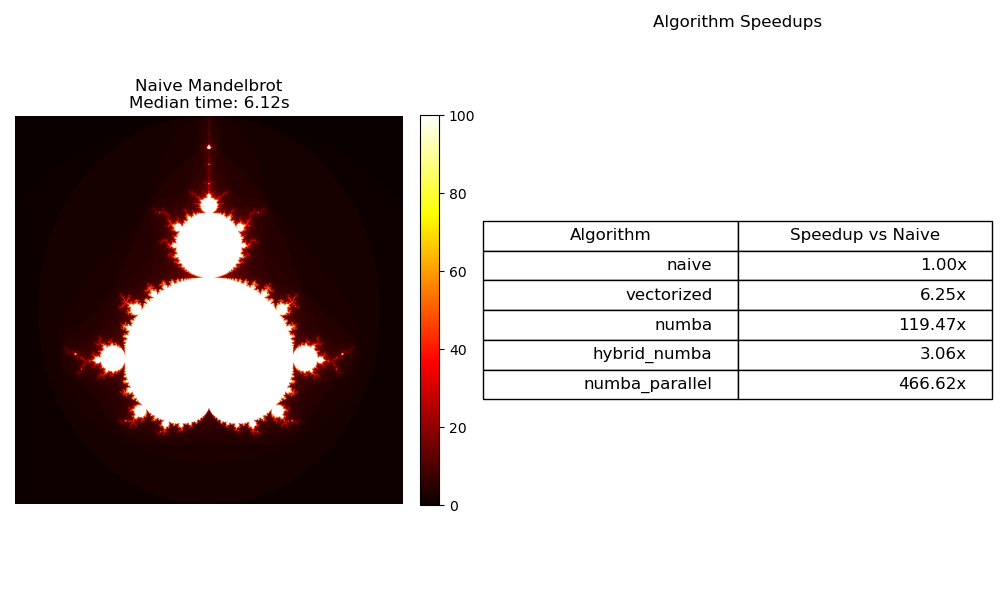
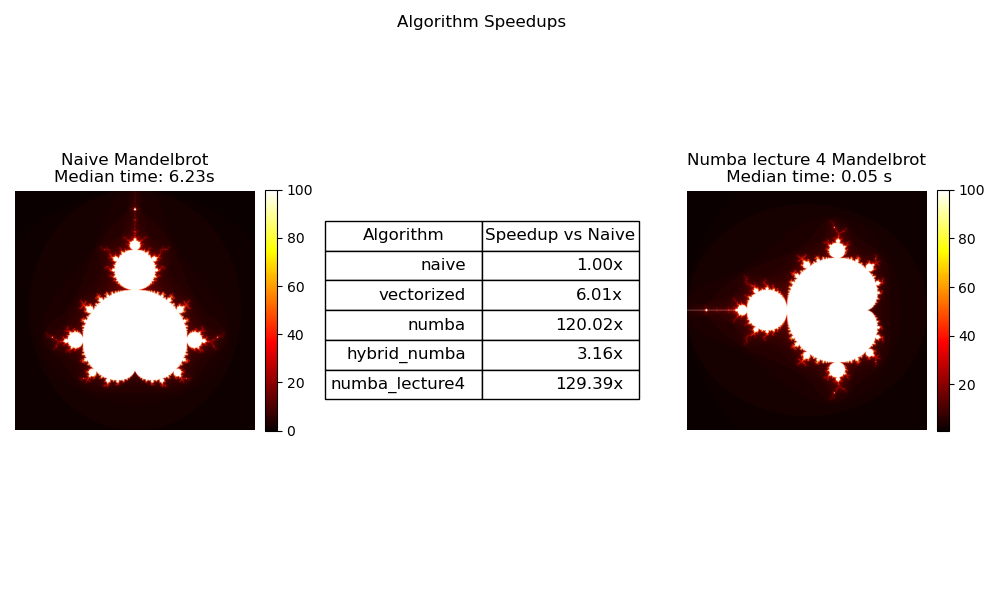
Milestone 1 Lecture 4, implemented serial with timing and result, match numba almost and same result as the other

diff --git a/mandelbort.py b/mandelbort.py
@@ -7,6 +7,8 @@ import numpy as np
 import time, statistics
 import matplotlib.pyplot as plt
 from numba import njit, prange
+from multiprocessing import Pool
+import os
 
 # probally need to remove all_c return as we just want to use iteration however just for debug for now
 def compute_mandelbrot_vectorized(x_min,x_max,y_min,y_max,num): 
@@ -161,6 +163,44 @@ def compute_mandelbrot_numba_parallel(x_min, x_max, y_min, y_max, num):
 
     return all_n
 
+@njit
+def mandelbrot_pixel(c_real, c_imag, max_iter):
+    z_real = 0.0
+    z_imag = 0.0
+
+    for i in range(max_iter):
+        z_real_sq = z_real * z_real
+        z_imag_sq = z_imag * z_imag
+        if z_real_sq + z_imag_sq > 4.0:
+            return i
+        z_imag_new = 2.0 * z_real*z_imag + c_imag
+        z_real = z_real_sq - z_imag_sq + c_real
+        z_imag = z_imag_new
+    return max_iter
+
+@njit
+def mandelbrot_chunk(row_start, row_end, N,
+                     x_min, x_max, y_min, y_max, max_iter):
+
+    out = np.empty((row_end - row_start, N), dtype=np.int32)
+
+    dx = (x_max - x_min) / N
+    dy = (y_max - y_min) / N
+
+    for r in range(row_end - row_start):
+        c_imag = y_min + (r + row_start) * dy
+
+        for col in range(N):
+            c_real = x_min + col * dx
+            out[r, col] = mandelbrot_pixel(c_real, c_imag, max_iter)
+
+    return out
+
+
+def mandelbrot_serial(N, x_min, x_max, y_min, y_max, max_iter=100):
+    return mandelbrot_chunk(0, N, N, x_min, x_max, y_min, y_max, max_iter)
+
+
 def run_algorithms(resolutions, algorithms, n_runs=1):
 
     results = {}
@@ -175,13 +215,13 @@ def run_algorithms(resolutions, algorithms, n_runs=1):
 
             meta = f"{name}_Res_{res}"
 
-            # warmup for numba functions
-            if "numba" in name:
-                _ = func(-2, 1, -1.5, 1.5, res)
+            # warmup for numba
+            if "numba" in name.lower():
+                _ = func(res)
 
             median_time, output = benchmark(
                 func,
-                -2, 1, -1.5, 1.5, res,
+                res,
                 n_runs=n_runs,
                 meta_prefix=meta
             )
@@ -215,11 +255,12 @@ if __name__=="__main__":
 
     # The parameters for running the algorihms
     algorithms = {
-    "naive": compute_mandelbrot_naive,
-    "vectorized": compute_mandelbrot_vectorized,
-    "numba": compute_mandelbrot_numba,
-    "hybrid_numba": compute_mandelbrot_hybrid,
-    "numba_parallel": compute_mandelbrot_numba_parallel
+    "naive": lambda res: compute_mandelbrot_naive(-2, 1, -1.5, 1.5, res),
+    "vectorized": lambda res: compute_mandelbrot_vectorized(-2, 1, -1.5, 1.5, res),
+    "numba": lambda res: compute_mandelbrot_numba(-2, 1, -1.5, 1.5, res),
+    "hybrid_numba": lambda res: compute_mandelbrot_hybrid(-2, 1, -1.5, 1.5, res),
+    # res = chunk as of now,
+    "numba_lecture4": lambda res: mandelbrot_serial(res, -2, 1, -1.5, 1.5, max_iter=100)
     }
     n_runs = 1
     grid_res = [1024]
@@ -234,7 +275,7 @@ if __name__=="__main__":
         speedups[name] = naive_time / t
 
     # create figure
-    fig, axes = plt.subplots(1, 2, figsize=(10, 6))
+    fig, axes = plt.subplots(1, 3, figsize=(10, 6))
 
     # mandelbrot image
     im0 = axes[0].imshow(results[1024]["naive"], cmap="hot")
@@ -257,9 +298,17 @@ if __name__=="__main__":
     table.scale(1.2, 1.5)
     axes[1].set_title("Algorithm Speedups")
 
+    im0 = axes[2].imshow(results[1024]["numba_lecture4"], cmap="hot")
+    numba_lecture_time_1024= timings[1024]["numba_lecture4"]
+    axes[2].set_title(f"Numba lecture 4 Mandelbrot\n Median time: {numba_lecture_time_1024:.2f} s")
+    axes[2].axis("off")
+    fig.colorbar(im0, ax=axes[2], fraction=0.046, pad=0.04)
+
     plt.tight_layout()
     plt.savefig("mandelbrot_comparison.png")
     plt.show()
+
+    out = mandelbrot_serial(1024, -2, 1, -1.5, 1.5, max_iter=100)
 
     
     
